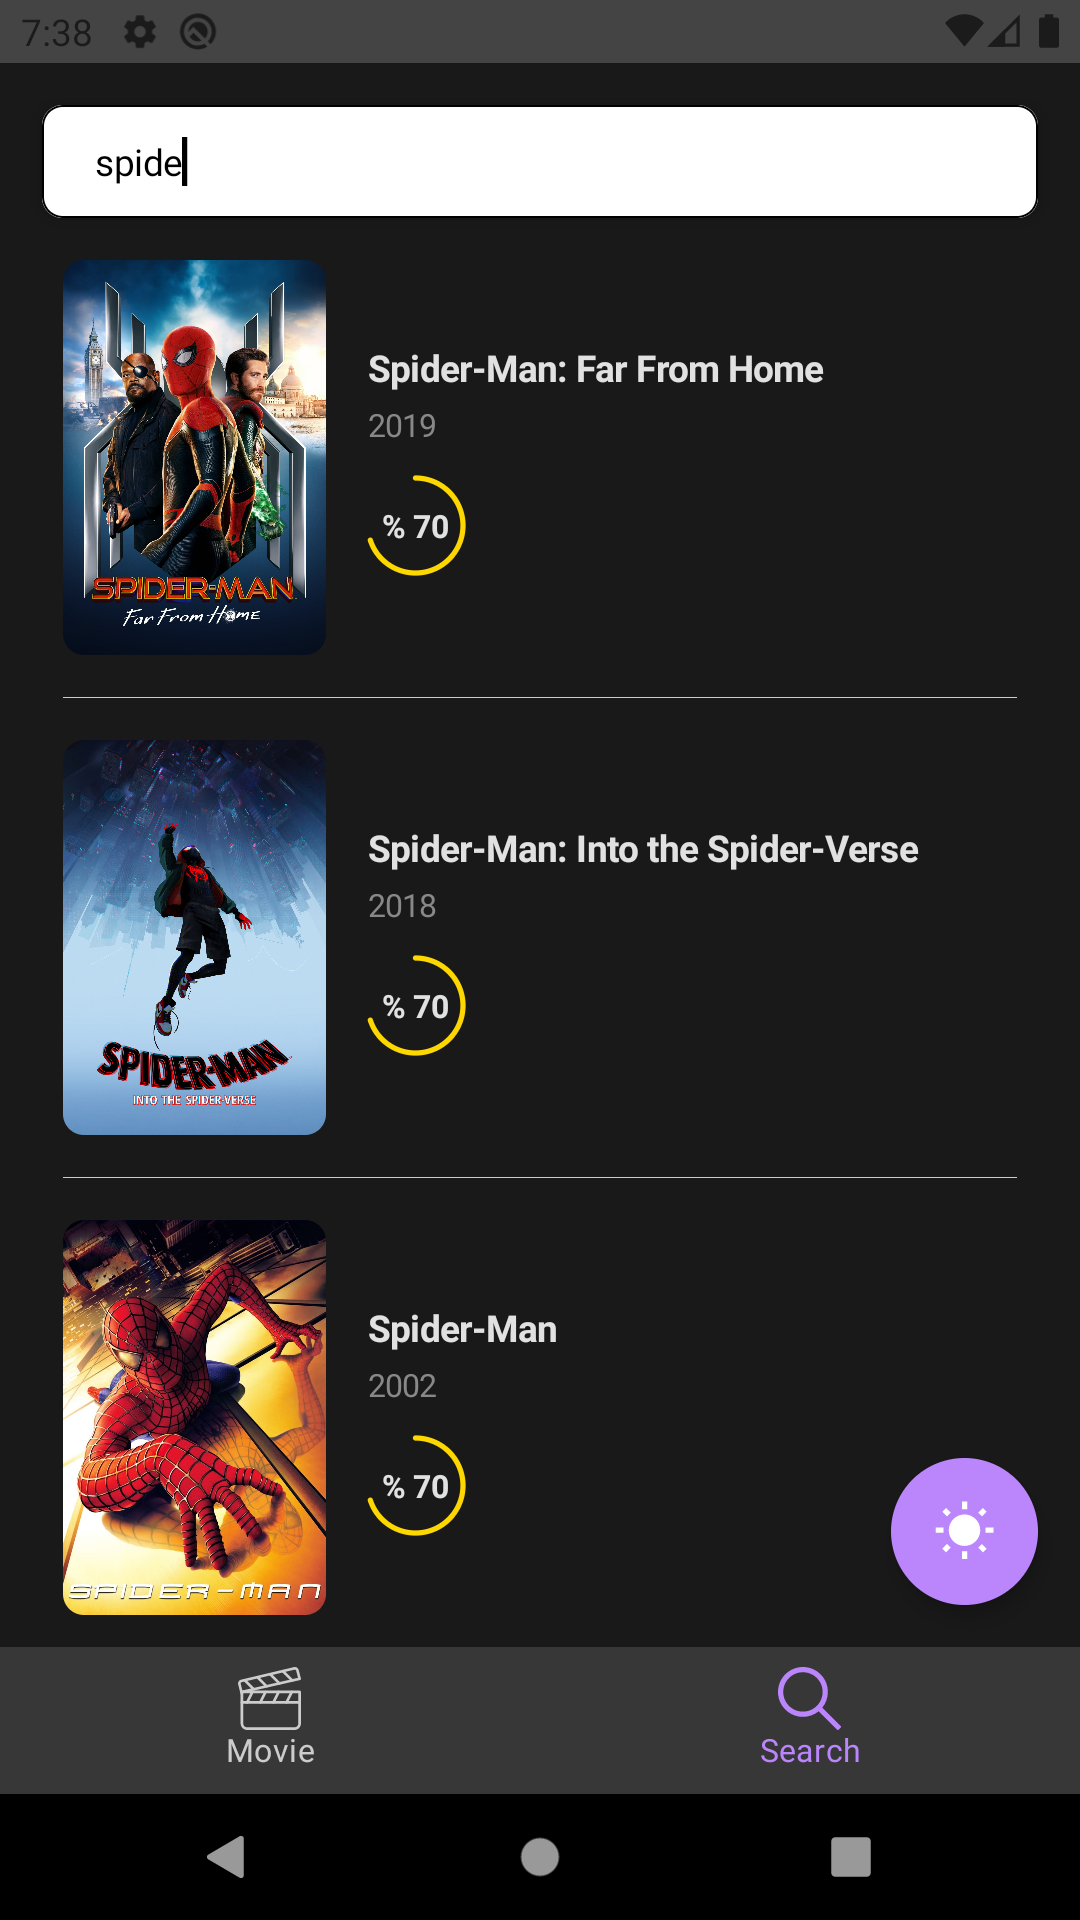
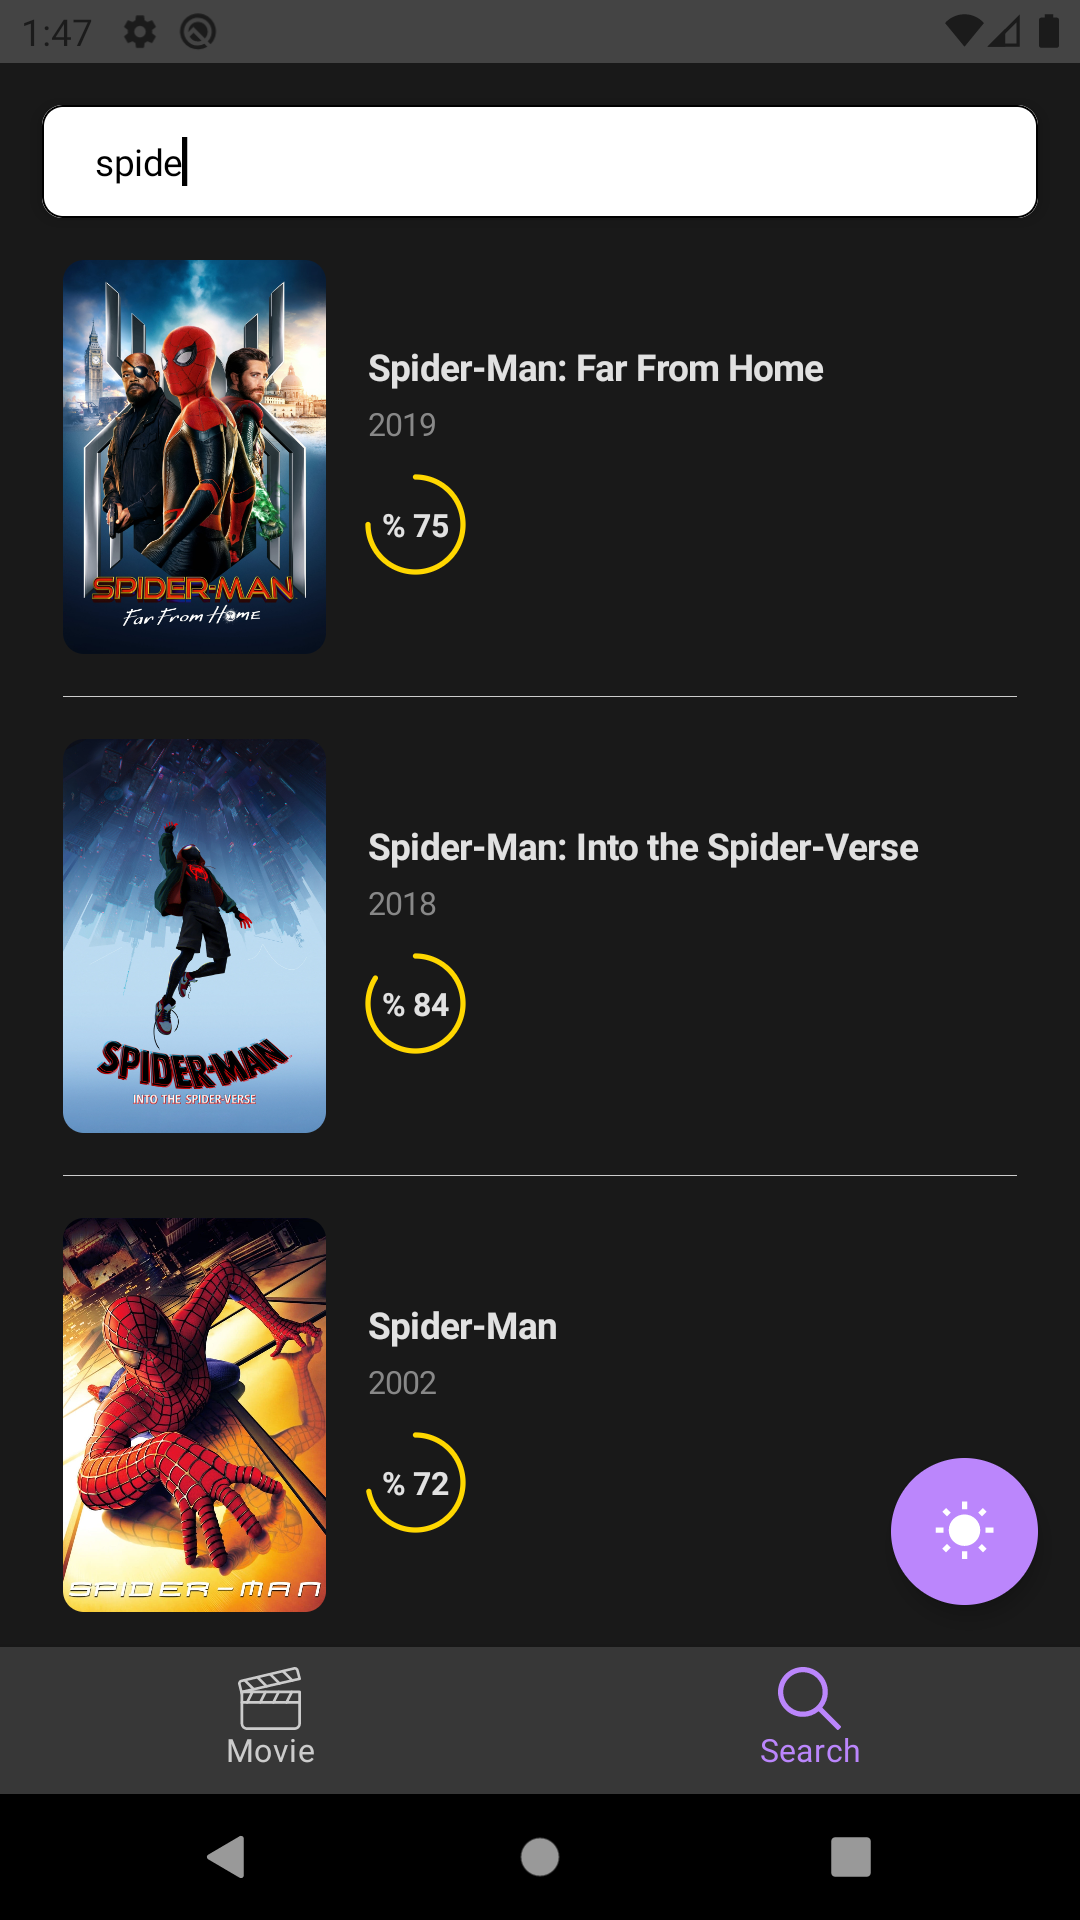
Minor updates in SearchScreen

diff --git a/app/src/main/java/com/caner/composemoviedb/ui/screen/SearchScreen.kt b/app/src/main/java/com/caner/composemoviedb/ui/screen/SearchScreen.kt
@@ -1,7 +1,6 @@
 package com.caner.composemoviedb.ui.screen
 
 import androidx.compose.foundation.ExperimentalFoundationApi
-import androidx.compose.foundation.Image
 import androidx.compose.foundation.background
 import androidx.compose.foundation.clickable
 import androidx.compose.foundation.layout.*
@@ -29,9 +28,9 @@ import com.caner.composemoviedb.common.Resource
 import com.caner.composemoviedb.data.Movie
 import com.caner.composemoviedb.presentation.SearchViewModel
 import com.caner.composemoviedb.ui.component.CircularProgress
+import com.caner.composemoviedb.ui.component.MoviePoster
 import com.caner.composemoviedb.ui.component.SearchBar
 import com.caner.composemoviedb.ui.theme.Typography
-import com.google.accompanist.coil.rememberCoilPainter
 import kotlinx.coroutines.ExperimentalCoroutinesApi
 import kotlinx.coroutines.FlowPreview
 
@@ -105,11 +104,6 @@ fun SearchItem(
     item: Movie,
     itemClicked: (Int) -> Unit
 ) {
-    val painter =
-        rememberCoilPainter(
-            request = item.poster?.original,
-            fadeIn = true
-        )
     Row(
         verticalAlignment = Alignment.CenterVertically,
         modifier = Modifier
@@ -119,12 +113,12 @@ fun SearchItem(
                 itemClicked(item.movieId)
             }
     ) {
-        Image(
-            painter = painter,
-            contentDescription = null,
+        MoviePoster(
+            poster = item.poster?.original,
             modifier = Modifier
                 .width(100.dp)
-                .clip(RoundedCornerShape(8.dp))
+                .height(150.dp)
+                .clip(MaterialTheme.shapes.medium)
         )
 
         Column(modifier = Modifier.padding(horizontal = 16.dp)) {
@@ -144,7 +138,7 @@ fun SearchItem(
                 modifier = Modifier.wrapContentSize()
             )
             Spacer(modifier = Modifier.height(12.dp))
-            CircularProgress(percentage = 0.7f, number = 100)
+            CircularProgress(percentage = ((item.voteAverage) / 10).toFloat(), number = 100)
         }
     }
 }

diff --git a/app/src/main/java/com/caner/composemoviedb/ui/screen/MovieScreen.kt b/app/src/main/java/com/caner/composemoviedb/ui/screen/MovieScreen.kt
@@ -112,7 +112,7 @@ fun NowPlayingMovies(
 fun MovieItem(item: Movie?, click: (String) -> Unit) {
     Card(
         elevation = 8.dp,
-        shape = MaterialTheme.shapes.medium,
+        shape = MaterialTheme.shapes.small,
         contentColor = Color.LightGray,
         modifier = Modifier
             .padding(horizontal = 8.dp)
@@ -128,7 +128,7 @@ fun MovieItem(item: Movie?, click: (String) -> Unit) {
             MoviePoster(
                 item?.poster?.original, modifier = Modifier
                     .fillMaxWidth()
-                    .clip(MaterialTheme.shapes.medium)
+                    .clip(MaterialTheme.shapes.small)
                     .height(200.dp)
             )
 
@@ -187,8 +187,8 @@ fun PopularMovies(viewModel: MovieViewModel = hiltViewModel()) {
                             .padding(end = 16.dp)
                             .height(180.dp)
                             .aspectRatio(1.6f)
-                            .clip(MaterialTheme.shapes.medium)
-                            .border(0.5.dp, Color.LightGray, MaterialTheme.shapes.medium)
+                            .clip(MaterialTheme.shapes.small)
+                            .border(0.5.dp, Color.LightGray, MaterialTheme.shapes.small)
                     ) {
                         MoviePoster(poster = it.backdrop?.original, modifier = Modifier.alpha(0.9f))
                         Text(

diff --git a/app/src/main/java/com/caner/composemoviedb/ui/theme/Shape.kt b/app/src/main/java/com/caner/composemoviedb/ui/theme/Shape.kt
@@ -6,6 +6,6 @@ import androidx.compose.ui.unit.dp
 
 val Shapes = Shapes(
     small = RoundedCornerShape(4.dp),
-    medium = RoundedCornerShape(4.dp),
-    large = RoundedCornerShape(8.dp)
+    medium = RoundedCornerShape(8.dp),
+    large = RoundedCornerShape(12.dp)
 )
